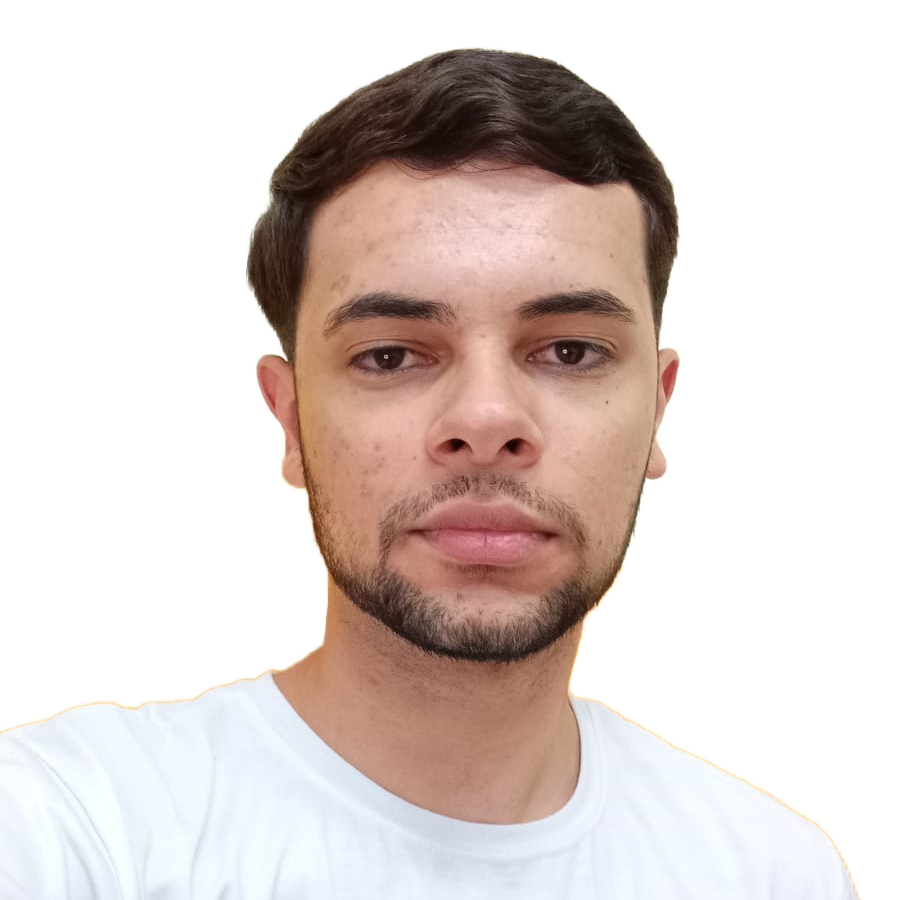
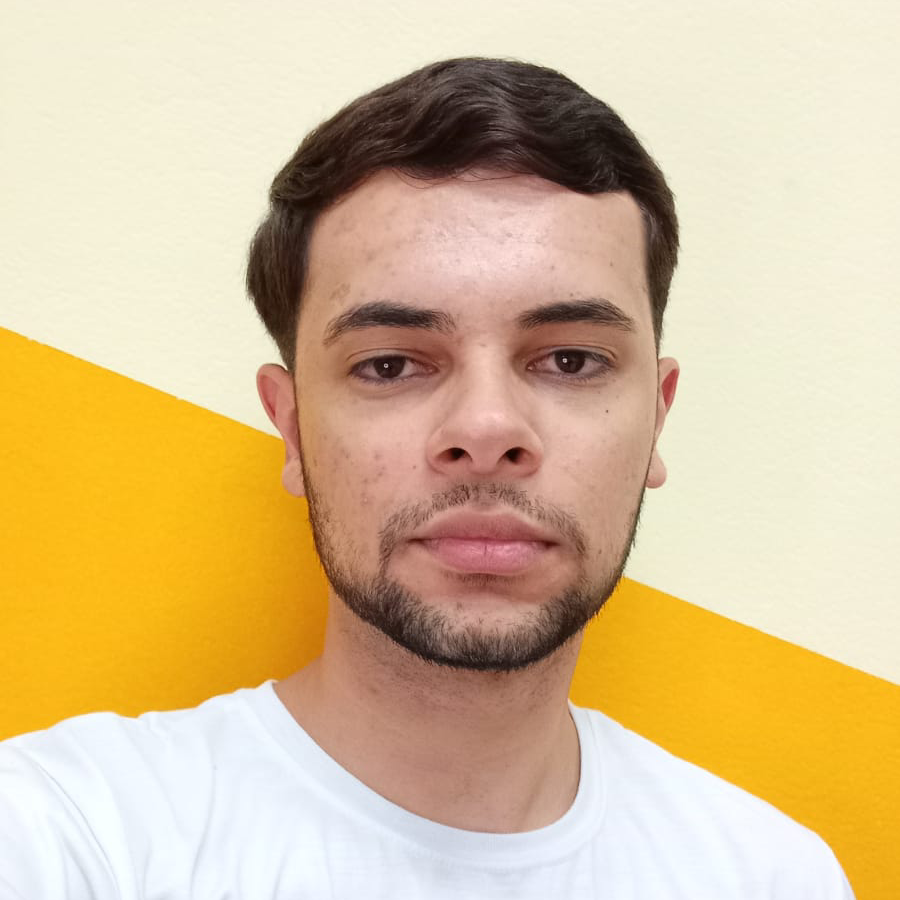
update photos

diff --git a/pessoas_isi.html b/pessoas_isi.html
@@ -27,7 +27,7 @@
             </div>
 
             <div class="square" data-content="Fabricio Castro; descrição, descrição, descrição descriçãodsda descrição" data-linkedin="https://www.linkedin.com/in/fabricio-castro-762402265/">
-                <img src="assets/pessoa.png">
+                <img src="assets/fabricio.jpg">
                 <h1>Fabricio Castro</h1>
             </div>
 
@@ -41,7 +41,7 @@
         <section class="line">
 
             <div class="square" data-content="Gustavo da Silva; descrição, descrição, descrição descriçãodsda descrição">
-                <img src="assets/pessoa.png">
+                <img src="assets/GustavoV.jpg">
                 <h1>Gustavo da Silva</h1>
             </div>
 
@@ -69,8 +69,8 @@
                 <h1>Khayan Joaquim</h1>
             </div>
 
-            <div class="square" data-content="Luiz Gustavo; descrição, descrição, descrição descriçãodsda descrição">
-                <img src="assets/pessoa.png">
+            <div class="square" data-content="Luiz Gustavo; descrição, descrição, descrição descriçãodsda descrição" data-linkedin="https://www.linkedin.com/in/luiz-gustavo-dantas-da-cunha-b23a601b5/">
+                <img src="assets/Luiz.jpg">
                 <h1>Luiz Gustavo</h1>
             </div>
         
@@ -83,13 +83,13 @@
                 <h1>Matheus Anselmo</h1>
             </div>
 
-            <div class="square" data-content="Matheus Gomes; descrição, descrição, descrição descriçãodsda descrição">
+            <div class="square" data-content="Matheus Gomes; descrição, descrição, descrição descriçãodsda descrição" data-linkedin="https://www.linkedin.com/in/matheus-gomes-a95951242/">
                 <img src="assets/pessoa.png">
                 <h1>Matheus Gomes</h1>
             </div>
 
             <div class="square" data-content="Natã Custódio; descrição, descrição, descrição descriçãodsda descrição">
-                <img src="assets/pessoa.png">
+                <img src="assets/nata.jpg">
                 <h1>Natã Custódio</h1>
             </div>
         
@@ -98,7 +98,7 @@
         <section class="line">
 
             <div class="square" data-content="Saymon Santarem; descrição, descrição, descrição descriçãodsda descrição">
-                <img src="assets/pessoa.png">
+                <img src="assets/saymon.jpg">
                 <h1>Saymon Santarem</h1>
             </div>
         

diff --git a/pessoas_arduino.html b/pessoas_arduino.html
@@ -19,18 +19,18 @@
         <section class="line">
 
             <div class="square" data-content="Everton Almeida; descrição, descrição, descrição descriçãodsda descrição" data-linkedin="https://www.linkedin.com/in/everton-silva-ns011/">
-                <img src="assets/pessoa.png">
-                <h1>Everton Almeida</h1>
+                <img src="assets/Ana.jpg">
+                <h1>Ana Clara</h1>
             </div>
 
             <div class="square" data-content="Fabricio Castro; descrição, descrição, descrição descriçãodsda descrição" data-linkedin="https://www.linkedin.com/in/everton-silva-ns011/">
                 <img src="assets/pessoa.png">
-                <h1>Fabricio Castro</h1>
+                <h1>Fabio Araujo</h1>
             </div>
 
             <div class="square" data-content="Gabriel Lima; descrição, descrição, descrição descriçãodsda descrição">
-                <img src="assets/pessoa.png">
-                <h1>Gabriel Lima</h1>
+                <img src="assets/Kaio.jpg">
+                <h1>Kaio Vinicius</h1>
             </div>
         
         </section>
@@ -39,17 +39,25 @@
 
             <div class="square" data-content="Everton Almeida; descrição, descrição, descrição descriçãodsda descrição" data-linkedin="https://www.linkedin.com/in/everton-silva-ns011/">
                 <img src="assets/pessoa.png">
-                <h1>Everton Almeida</h1>
+                <h1>Pedro Borges</h1>
             </div>
 
             <div class="square" data-content="Fabricio Castro; descrição, descrição, descrição descriçãodsda descrição" data-linkedin="https://www.linkedin.com/in/everton-silva-ns011/">
                 <img src="assets/pessoa.png">
-                <h1>Fabricio Castro</h1>
+                <h1>Thiago Scher</h1>
             </div>
 
             <div class="square" data-content="Gabriel Lima; descrição, descrição, descrição descriçãodsda descrição">
                 <img src="assets/pessoa.png">
-                <h1>Gabriel Lima</h1>
+                <h1>Vitoria Cazita</h1>
+            </div>
+        
+        </section>
+        <section class="line">
+
+            <div class="square" data-content="Gabriel Lima; descrição, descrição, descrição descriçãodsda descrição">
+                <img src="assets/pessoa.png">
+                <h1>Vinicius Romagnolo</h1>
             </div>
         
         </section>

diff --git a/css/pessoas_arduino.css b/css/pessoas_arduino.css
@@ -57,9 +57,8 @@ div.square {
   transition: 0.5s;
 }
 div.square img {
-  width: 125px;
-  height: 125px;
-  filter: drop-shadow(5px 5px 5px #3a3a3a);
+  width: 110px;
+  height: 110px;
   border-radius: 100px;
   background-color: #f7f7f7;
 }
@@ -109,7 +108,7 @@ div.square:hover {
 main {
   display: flex;
   flex-direction: column;
-  height: 141vh;
+  height: 195vh;
   justify-content: space-around;
   text-align: center;
 }/*# sourceMappingURL=pessoas_arduino.css.map */

diff --git a/css/_cards.sass b/css/_cards.sass
@@ -17,9 +17,8 @@ div.square
     color: white
     transition: 0.5s
     img
-        width: 125px
-        height: 125px
-        filter: drop-shadow(5px 5px 5px #3a3a3a)
+        width: 110px
+        height: 110px
         border-radius: 100px
         background-color: #f7f7f7
 

diff --git a/css/pessoas_chamado.css b/css/pessoas_chamado.css
@@ -57,9 +57,8 @@ div.square {
   transition: 0.5s;
 }
 div.square img {
-  width: 125px;
-  height: 125px;
-  filter: drop-shadow(5px 5px 5px #3a3a3a);
+  width: 110px;
+  height: 110px;
   border-radius: 100px;
   background-color: #f7f7f7;
 }

diff --git a/css/pessoas_isi.css b/css/pessoas_isi.css
@@ -57,9 +57,8 @@ div.square {
   transition: 0.5s;
 }
 div.square img {
-  width: 125px;
-  height: 125px;
-  filter: drop-shadow(5px 5px 5px #3a3a3a);
+  width: 110px;
+  height: 110px;
   border-radius: 100px;
   background-color: #f7f7f7;
 }

diff --git a/css/pessoas_arduino.sass b/css/pessoas_arduino.sass
@@ -5,6 +5,6 @@
 main 
     display: flex
     flex-direction: column
-    height: 141vh
+    height: 195vh
     justify-content: space-around
     text-align: center
